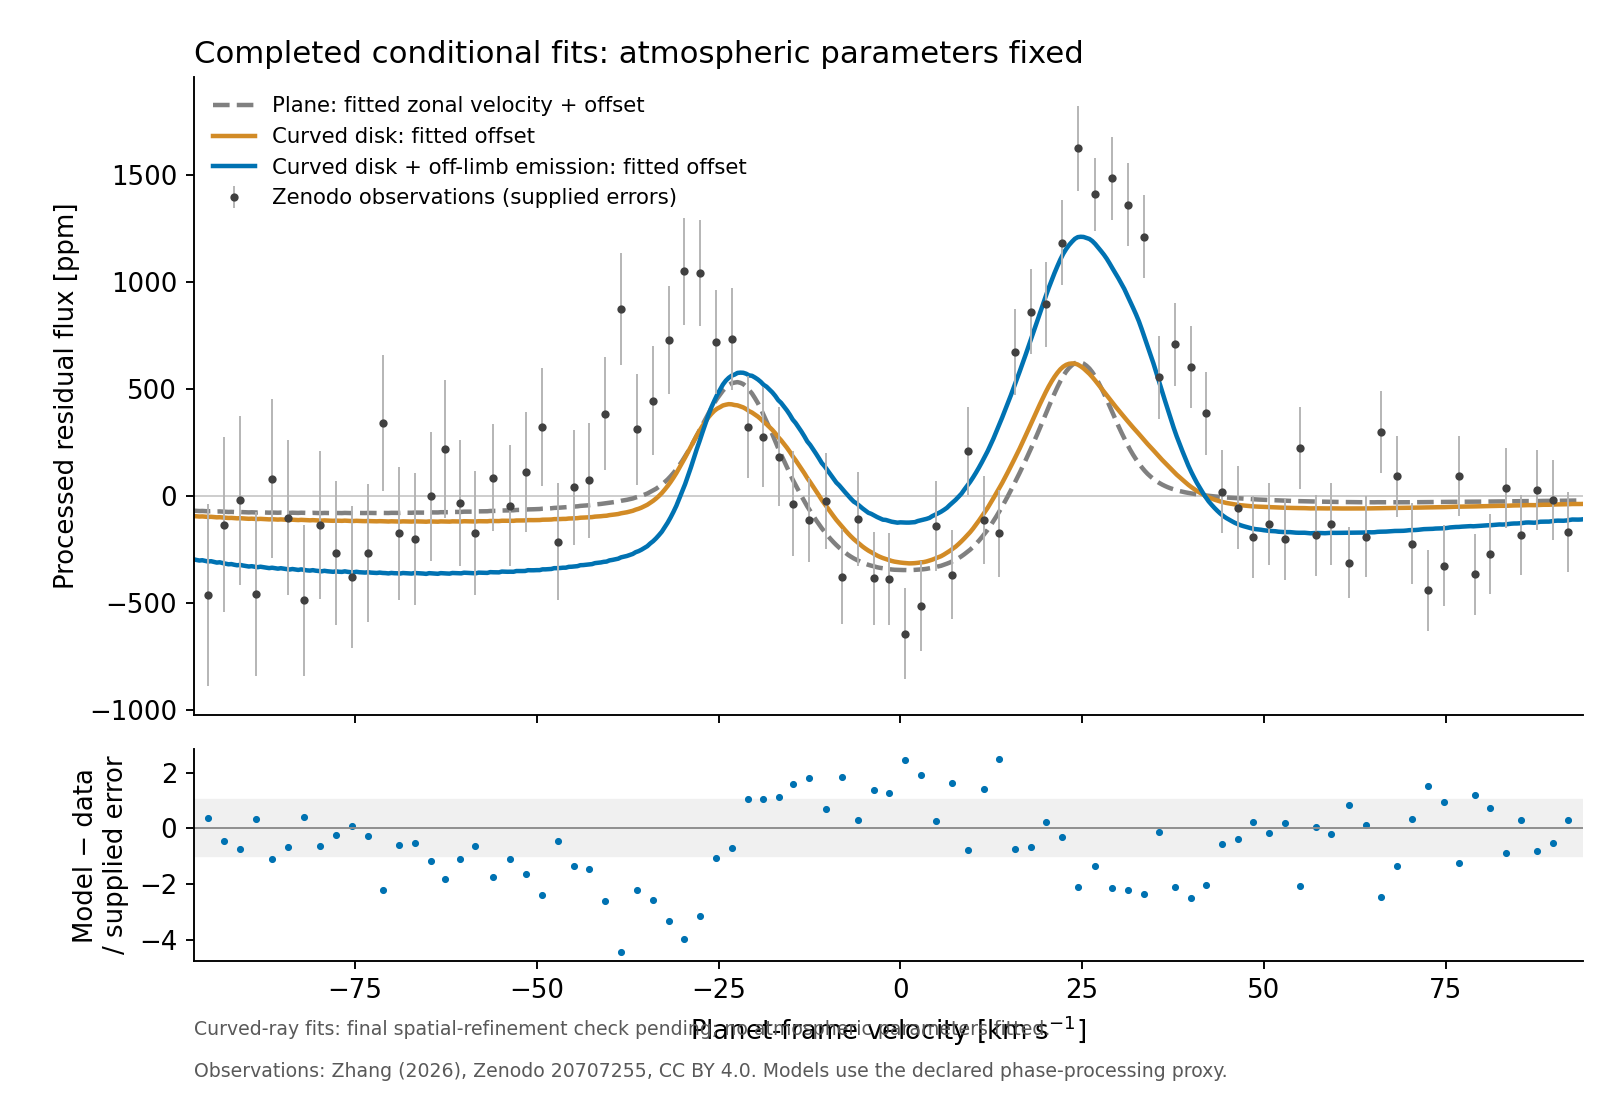
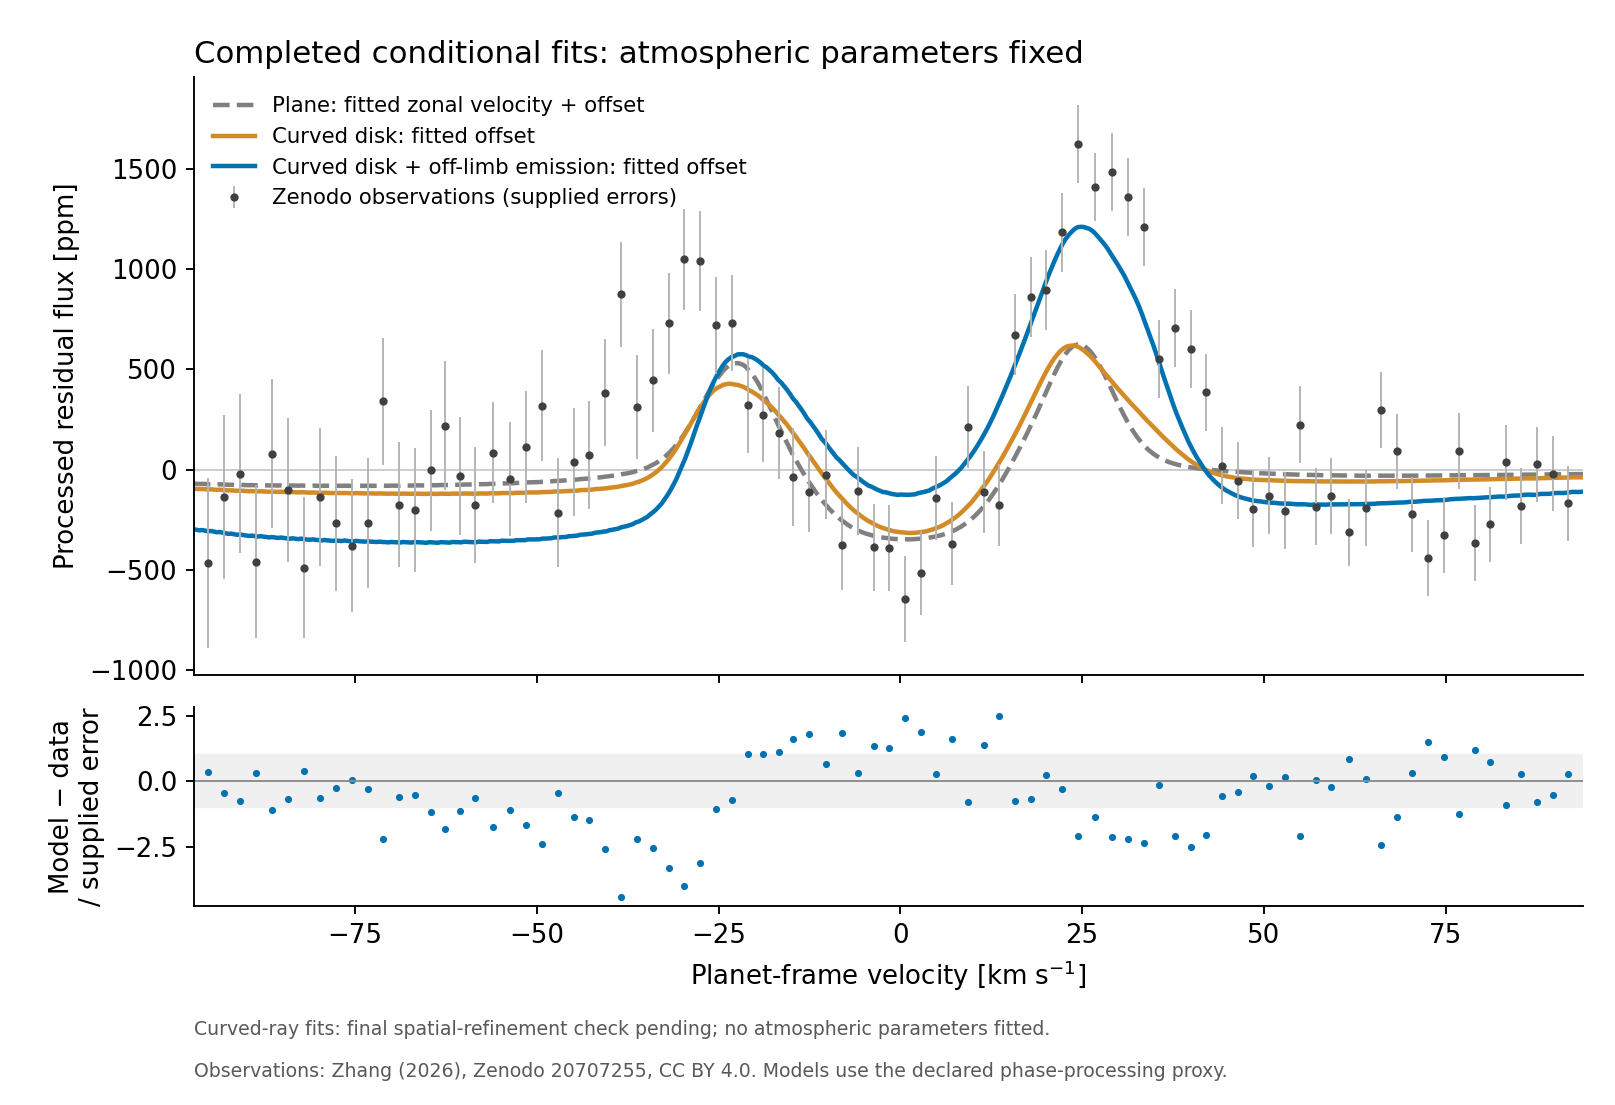
separate the figure note from the velocity label

diff --git a/mceg/evidence/conditional_fit_20261125/plot_fit.py b/mceg/evidence/conditional_fit_20261125/plot_fit.py
@@ -60,7 +60,8 @@ def main():
     residual.set_xlim(velocity.min() - 2, velocity.max() + 2)
     axis.set_title(config["title"], loc="left", fontsize=13)
     axis.legend(frameon=False, fontsize=9, loc="upper left")
-    fig.subplots_adjust(left=0.12, right=0.98, top=0.93, bottom=0.13)
+    fig.subplots_adjust(left=0.12, right=0.98, top=0.93,
+                        bottom=0.18 if config.get("note") else 0.13)
     if config.get("note"):
         fig.text(0.12, 0.063, config["note"], fontsize=8, color="0.35")
     fig.text(0.12, 0.025,
